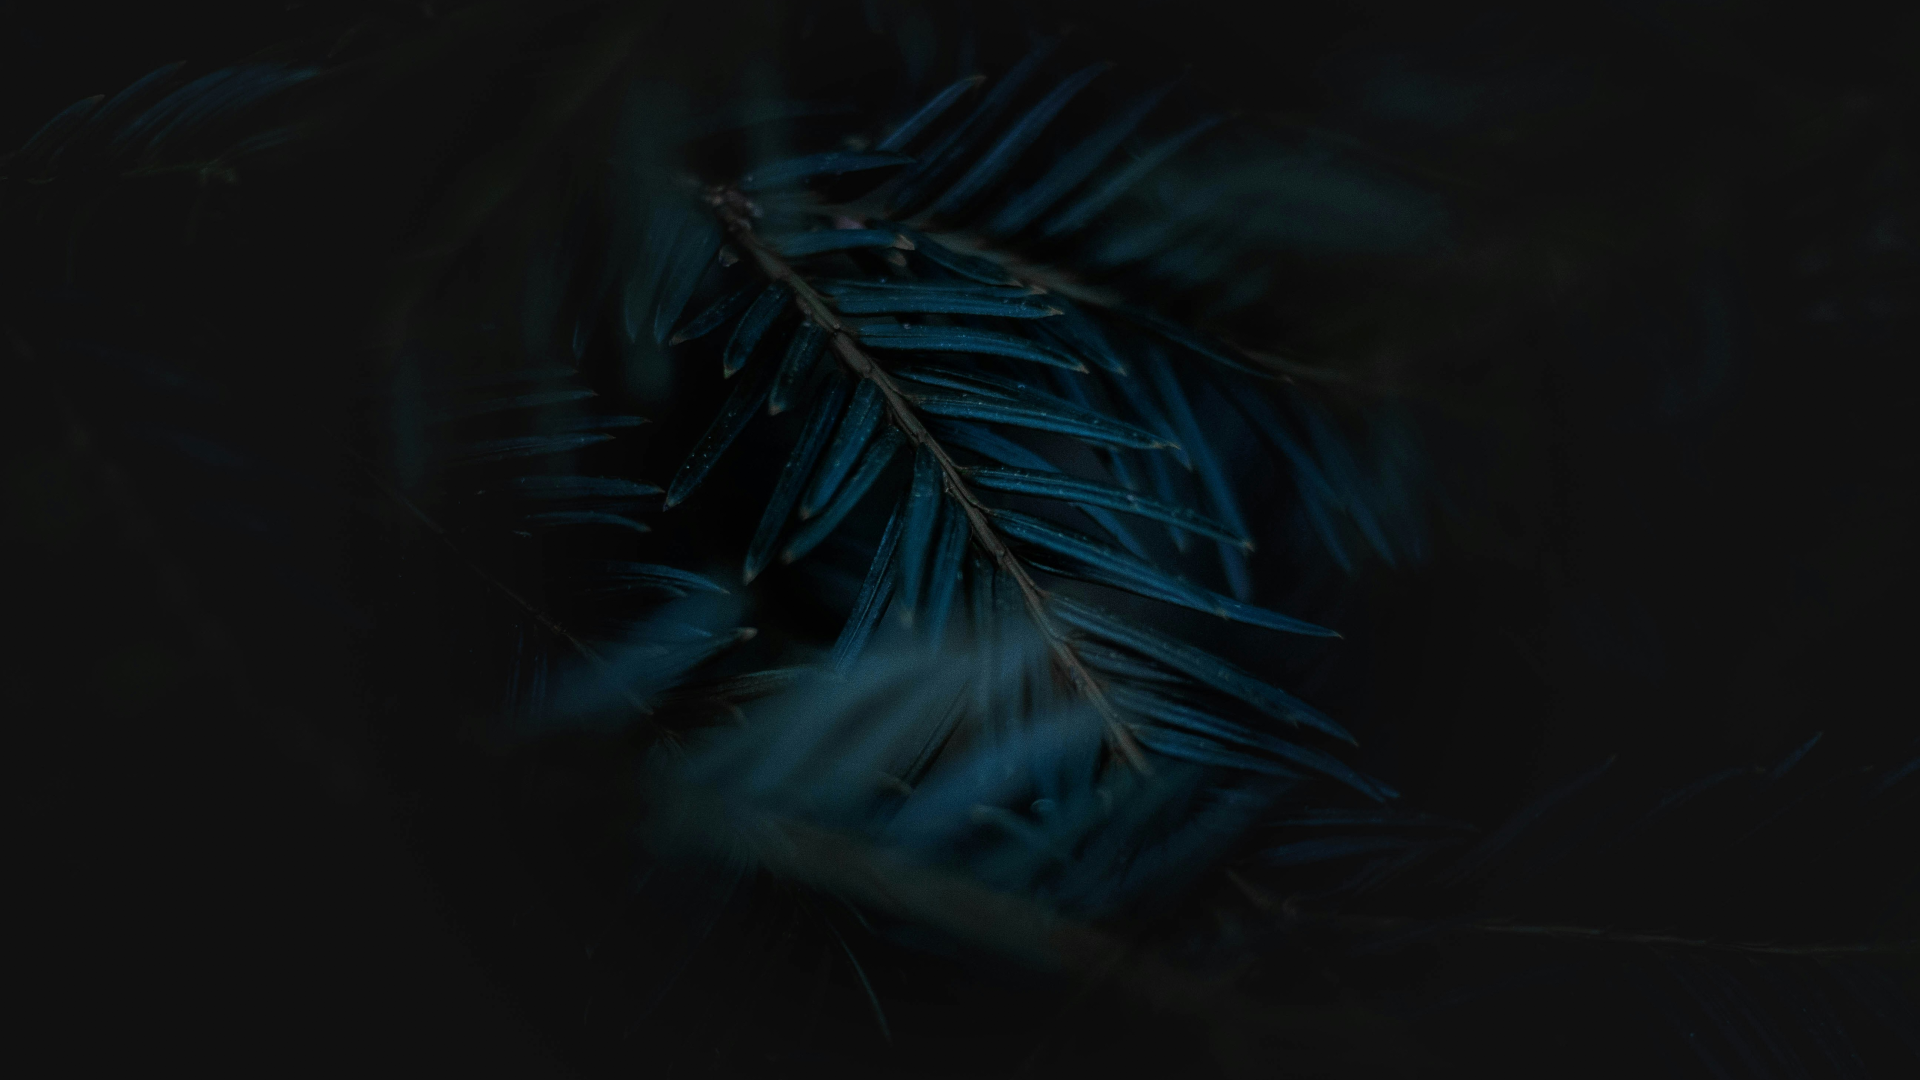
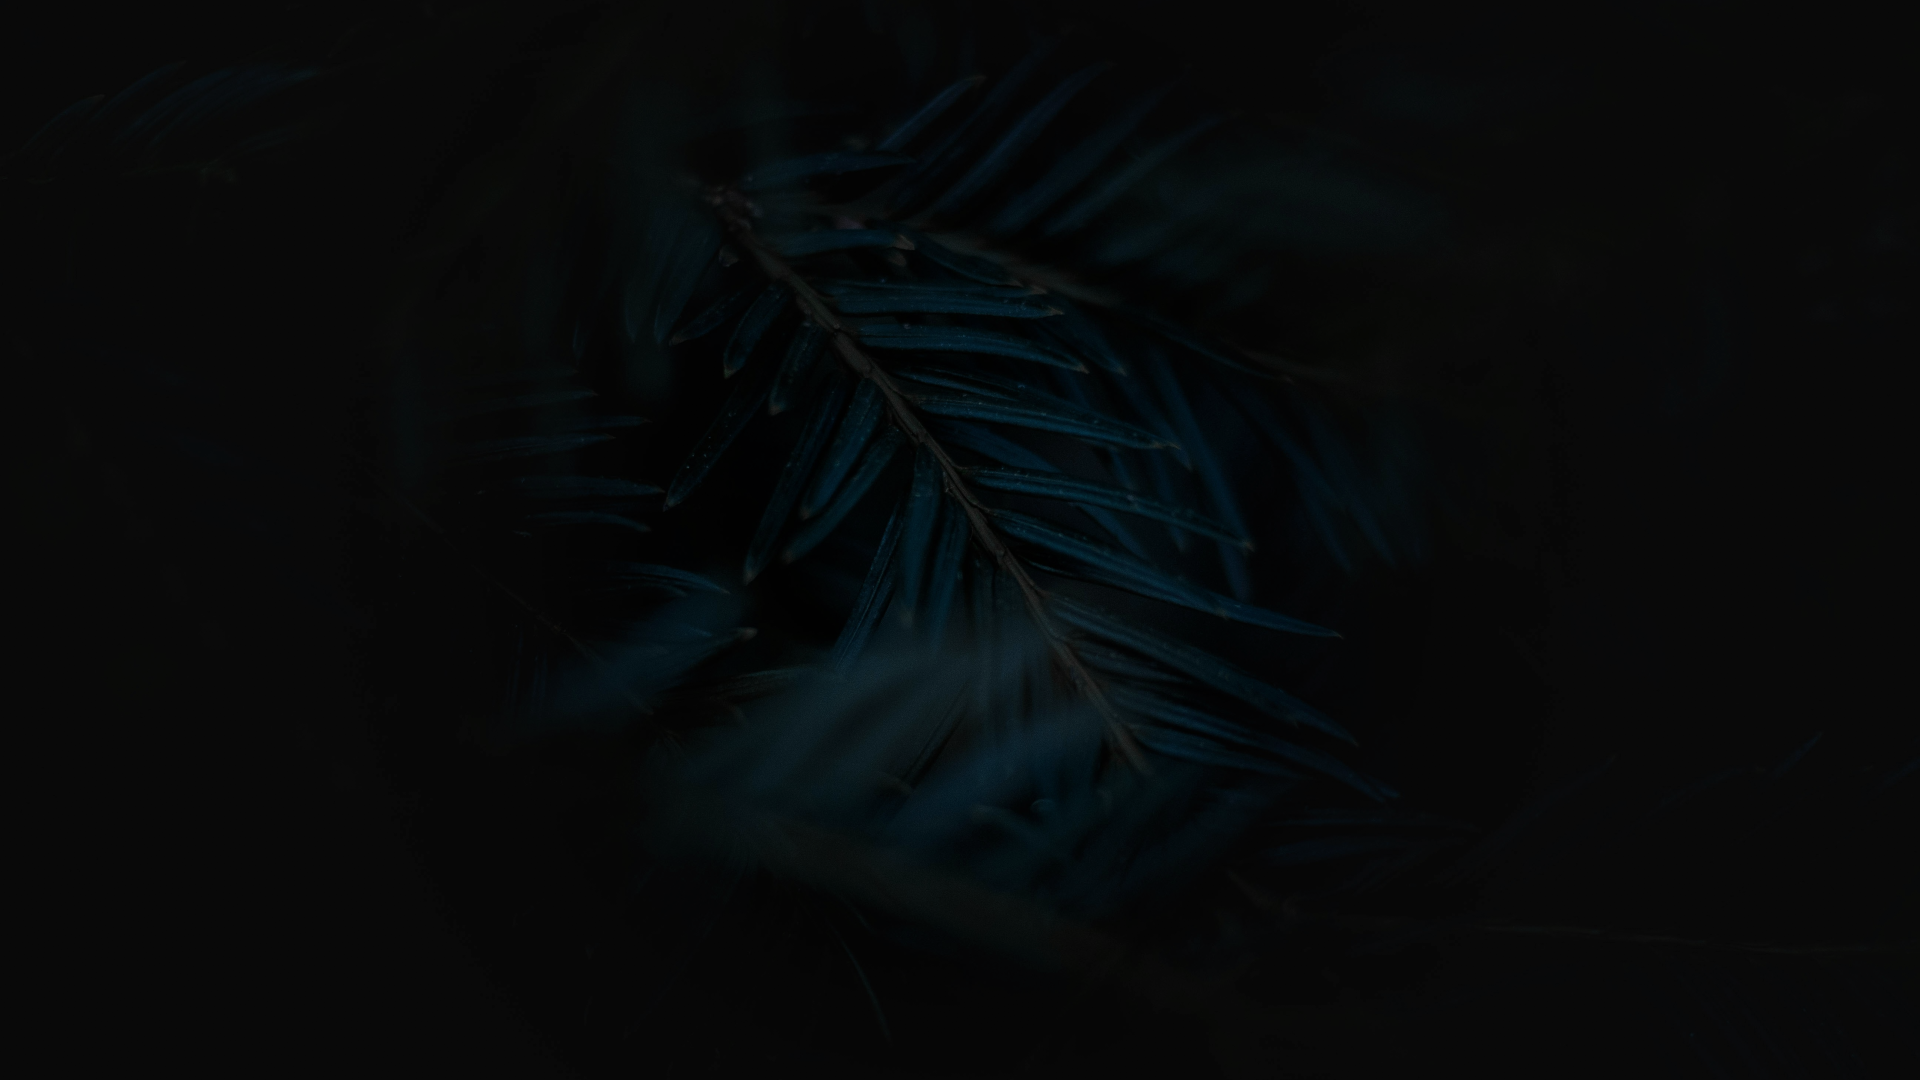
update login feature

diff --git a/assets/css/styles.css b/assets/css/styles.css
@@ -11159,7 +11159,3 @@ fieldset:disabled .btn {
 		display: none !important;
 	}
 }
-/* body {
-  background: url("https://dummyimage.com/1920x1080/dee2e6/6c757d.jpg") no-repeat center center fixed;
-  background-size: cover;
-} */

diff --git a/database.php b/database.php
@@ -1,0 +1,96 @@
+<?php
+defined('BASEPATH') or exit('No direct script access allowed');
+
+/*
+| -------------------------------------------------------------------
+| DATABASE CONNECTIVITY SETTINGS
+| -------------------------------------------------------------------
+| This file will contain the settings needed to access your database.
+|
+| For complete instructions please consult the 'Database Connection'
+| page of the User Guide.
+|
+| -------------------------------------------------------------------
+| EXPLANATION OF VARIABLES
+| -------------------------------------------------------------------
+|
+|	['dsn']      The full DSN string describe a connection to the database.
+|	['hostname'] The hostname of your database server.
+|	['username'] The username used to connect to the database
+|	['password'] The password used to connect to the database
+|	['database'] The name of the database you want to connect to
+|	['dbdriver'] The database driver. e.g.: mysqli.
+|			Currently supported:
+|				 cubrid, ibase, mssql, mysql, mysqli, oci8,
+|				 odbc, pdo, postgre, sqlite, sqlite3, sqlsrv
+|	['dbprefix'] You can add an optional prefix, which will be added
+|				 to the table name when using the  Query Builder class
+|	['pconnect'] TRUE/FALSE - Whether to use a persistent connection
+|	['db_debug'] TRUE/FALSE - Whether database errors should be displayed.
+|	['cache_on'] TRUE/FALSE - Enables/disables query caching
+|	['cachedir'] The path to the folder where cache files should be stored
+|	['char_set'] The character set used in communicating with the database
+|	['dbcollat'] The character collation used in communicating with the database
+|				 NOTE: For MySQL and MySQLi databases, this setting is only used
+| 				 as a backup if your server is running PHP < 5.2.3 or MySQL < 5.0.7
+|				 (and in table creation queries made with DB Forge).
+| 				 There is an incompatibility in PHP with mysql_real_escape_string() which
+| 				 can make your site vulnerable to SQL injection if you are using a
+| 				 multi-byte character set and are running versions lower than these.
+| 				 Sites using Latin-1 or UTF-8 database character set and collation are unaffected.
+|	['swap_pre'] A default table prefix that should be swapped with the dbprefix
+|	['encrypt']  Whether or not to use an encrypted connection.
+|
+|			'mysql' (deprecated), 'sqlsrv' and 'pdo/sqlsrv' drivers accept TRUE/FALSE
+|			'mysqli' and 'pdo/mysql' drivers accept an array with the following options:
+|
+|				'ssl_key'    - Path to the private key file
+|				'ssl_cert'   - Path to the public key certificate file
+|				'ssl_ca'     - Path to the certificate authority file
+|				'ssl_capath' - Path to a directory containing trusted CA certificates in PEM format
+|				'ssl_cipher' - List of *allowed* ciphers to be used for the encryption, separated by colons (':')
+|				'ssl_verify' - TRUE/FALSE; Whether verify the server certificate or not
+|
+|	['compress'] Whether or not to use client compression (MySQL only)
+|	['stricton'] TRUE/FALSE - forces 'Strict Mode' connections
+|							- good for ensuring strict SQL while developing
+|	['ssl_options']	Used to set various SSL options that can be used when making SSL connections.
+|	['failover'] array - A array with 0 or more data for connections if the main should fail.
+|	['save_queries'] TRUE/FALSE - Whether to "save" all executed queries.
+| 				NOTE: Disabling this will also effectively disable both
+| 				$this->db->last_query() and profiling of DB queries.
+| 				When you run a query, with this setting set to TRUE (default),
+| 				CodeIgniter will store the SQL statement for debugging purposes.
+| 				However, this may cause high memory usage, especially if you run
+| 				a lot of SQL queries ... disable this to avoid that problem.
+|
+| The $active_group variable lets you choose which connection group to
+| make active.  By default there is only one group (the 'default' group).
+|
+| The $query_builder variables lets you determine whether or not to load
+| the query builder class.
+*/
+$active_group = 'default';
+$query_builder = TRUE;
+
+$db['default'] = array(
+	'dsn'	=> '',
+	'hostname' => 'localhost',
+	'username' => 'root',
+	'password' => '',
+	'database' => 'db_belajar',
+	'dbdriver' => 'mysqli',
+	'dbprefix' => '',
+	'pconnect' => FALSE,
+	'db_debug' => (ENVIRONMENT !== 'production'),
+	'cache_on' => FALSE,
+	'cachedir' => '',
+	'char_set' => 'utf8',
+	'dbcollat' => 'utf8_general_ci',
+	'swap_pre' => '',
+	'encrypt' => FALSE,
+	'compress' => FALSE,
+	'stricton' => FALSE,
+	'failover' => array(),
+	'save_queries' => TRUE
+);

diff --git a/application/views/landing/register.php b/application/views/landing/register.php
@@ -1,0 +1,72 @@
+<!DOCTYPE html>
+<html lang="en" data-bs-theme="dark">
+
+<head>
+    <meta charset="utf-8" />
+    <meta name="viewport" content="width=device-width, initial-scale=1, shrink-to-fit=no" />
+    <meta name="description" content="Simple Notes Application For Assignment" />
+    <meta name="author" content="Muhammad Askar Habibulloh" />
+    <title>Simple Note</title>
+    <!-- Favicon-->
+    <link rel="icon" type="image/x-icon" href="<?= base_url('assets/img/') ?>journal.svg" />
+    <!-- Core theme CSS (includes Bootstrap)-->
+    <link href="<?= base_url('assets/') ?>css/styles.css" rel="stylesheet" />
+    <style>
+        label {
+            color: white;
+        }
+    </style>
+</head>
+
+<body style="background: url('<?= base_url("assets/img/") ?>g.png') no-repeat center center fixed; background-size: cover; background-color:black;">
+
+
+    <div class="container py-5 h-100">
+        <div class="row d-flex justify-content-center align-items-center h-100">
+            <div class="col-12 col-md-8 col-lg-6 col-xl-5">
+                <div class="card bg-dark text-white" style="border-radius: 1rem;">
+                    <div class="card-body p-5 text-center">
+
+                        <div class="mb-md-5 mt-md-4 pb-5">
+
+                            <h2 class="fw-bold mb-2 text-uppercase">Create Account</h2>
+                            <form method="post" action="<?= base_url('user/registration') ?>">
+                                <div class="form-outline form-white mb-4">
+                                    <label for="typeUsername">Username</label>
+                                    <input type="text" id="typeUsername" name="typeUsername" class="form-control form-control-lg" />
+                                </div>
+
+                                <div class="form-outline form-white mb-4">
+                                    <label for="typePassword">Password</label>
+                                    <input type="password" id="typePassword" name="typePassword" class="form-control form-control-lg" />
+                                </div>
+                                <div class="form-outline form-white mb-4">
+                                    <label for="typePasswordConfirm">Password Confirmation</label>
+                                    <input type="password" id="typePasswordConfirm" name="typePasswordConfirm" class="form-control form-control-lg" />
+                                </div>
+                                <button class="btn btn-outline-light btn-lg px-5 mt-3" type="submit">Register</button>
+                            </form>
+                            <div class="d-flex justify-content-center text-center mt-4 pt-1">
+                                <a href="#!" class="text-white"><i class="fab fa-facebook-f fa-lg"></i></a>
+                                <a href="#!" class="text-white"><i class="fab fa-twitter fa-lg mx-4 px-2"></i></a>
+                                <a href="#!" class="text-white"><i class="fab fa-google fa-lg"></i></a>
+                            </div>
+
+                        </div>
+
+                        <div>
+                            <p class="mb-0"> Have an account? <a href="<?= base_url('user') ?>" class="text-white-50 fw-bold">Sign In</a>
+                            </p>
+                        </div>
+
+                    </div>
+                </div>
+            </div>
+        </div>
+    </div><!-- Bootstrap core JS-->
+    <script src="https://cdn.jsdelivr.net/npm/bootstrap@5.2.3/dist/js/bootstrap.bundle.min.js"></script>
+    <!-- Core theme JS-->
+    <script src="<?= base_url('assets/') ?>js/scripts.js"></script>
+</body>
+
+</html>

diff --git a/application/views/landing/login.php b/application/views/landing/login.php
@@ -1,0 +1,70 @@
+<!DOCTYPE html>
+<html lang="en" data-bs-theme="dark">
+
+<head>
+    <meta charset="utf-8" />
+    <meta name="viewport" content="width=device-width, initial-scale=1, shrink-to-fit=no" />
+    <meta name="description" content="Simple Notes Application For Assignment" />
+    <meta name="author" content="Muhammad Askar Habibulloh" />
+    <title>Simple Note</title>
+    <!-- Favicon-->
+    <link rel="icon" type="image/x-icon" href="<?= base_url('assets/img/') ?>journal.svg" />
+    <!-- Core theme CSS (includes Bootstrap)-->
+    <link href="<?= base_url('assets/') ?>css/styles.css" rel="stylesheet" />
+    <style>
+        label {
+            color: white;
+        }
+    </style>
+</head>
+
+<body style="background: url('<?= base_url("assets/img/") ?>g.png') no-repeat center center fixed; background-size: cover; background-color:black;">
+
+
+    <div class="container py-5 h-100">
+        <div class="row d-flex justify-content-center align-items-center h-100">
+            <div class="col-12 col-md-8 col-lg-6 col-xl-5">
+                <div class="card bg-dark text-white" style="border-radius: 1rem;">
+
+                    <div class="card-body p-5 text-center">
+
+                        <div class="mb-md-5 mt-md-4 pb-5"><?= $this->session->flashdata('message') ?>
+
+                            <h2 class="fw-bold mb-2 text-uppercase">Login</h2>
+                            <form method="post" action="<?= base_url('user/login') ?>">
+                                <div class="form-outline form-white mb-4">
+                                    <label for="typeUsername">Username</label>
+                                    <input type="text" id="typeUsername" name="typeUsername" class="form-control form-control-lg" />
+                                </div>
+
+                                <div class="form-outline form-white mb-4">
+                                    <label for="typePassword">Password</label>
+                                    <input type="password" id="typePassword" name="typePassword" class="form-control form-control-lg" />
+                                </div>
+                                <button class="btn btn-outline-light btn-lg px-5 mt-3" type="submit">Login</button>
+                            </form>
+
+                            <div class="d-flex justify-content-center text-center mt-4 pt-1">
+                                <a href="#!" class="text-white"><i class="fab fa-facebook-f fa-lg"></i></a>
+                                <a href="#!" class="text-white"><i class="fab fa-twitter fa-lg mx-4 px-2"></i></a>
+                                <a href="#!" class="text-white"><i class="fab fa-google fa-lg"></i></a>
+                            </div>
+
+                        </div>
+
+                        <div>
+                            <p class="mb-0"> Dont have an account? <a href="<?= base_url('user/register') ?>" class="text-white-50 fw-bold">Sign Up</a>
+                            </p>
+                        </div>
+
+                    </div>
+                </div>
+            </div>
+        </div>
+    </div><!-- Bootstrap core JS-->
+    <script src="https://cdn.jsdelivr.net/npm/bootstrap@5.2.3/dist/js/bootstrap.bundle.min.js"></script>
+    <!-- Core theme JS-->
+    <script src="<?= base_url('assets/') ?>js/scripts.js"></script>
+</body>
+
+</html>

diff --git a/application/controllers/User.php b/application/controllers/User.php
@@ -1,0 +1,69 @@
+<?php
+defined('BASEPATH') or exit('No direct script access allowed');
+
+class user extends CI_Controller
+{
+	public function __construct()
+	{
+		parent::__construct();
+	}
+	public function index()
+	{
+		$this->load->view('landing/login');
+	}
+
+	public function register()
+	{
+		$this->load->view('landing/register');
+	}
+	public function notes()
+	{
+		$this->load->view('landing/notes');
+	}
+	public function registration()
+	{
+		$this->form_validation->set_rules('typeUsername', 'Username', 'required|trim|is_unique[user.username]');
+		$this->form_validation->set_rules('typePassword', 'Password', 'required|trim|min_length[5]|matches[typePasswordConfirm]');
+		$this->form_validation->set_rules('typePasswordConfirm', 'Password Confirmation', 'required|trim|matches[typePassword]');
+
+		if ($this->form_validation->run() == false) {
+			redirect('user/register');
+		} else {
+			$data = [
+				'username' => htmlspecialchars($this->input->post('typeUsername', true)),
+				'password' => password_hash($this->input->post('typePassword'), PASSWORD_DEFAULT),
+				'is_active' => '1',
+			];
+
+			$this->db->insert('user', $data);
+			$this->session->set_flashdata('message', '<div class="alert alert-success" role="alert">Your account has been created</div>');
+			redirect('user');
+		}
+	}
+
+	public function login()
+	{
+		$username = $this->input->post('typeUsername');
+		$password = $this->input->post('typePassword');
+
+		$user = $this->db->get_where('user', ['username' => $username])->row_array();
+
+		if ($user) {
+			if (password_verify($password, $user['password'])) {
+				$data = [
+					'username' => $user['username'],
+					'id_user' => $user['id_user'],
+					'is_active' => $user['is_active']
+				];
+				$this->session->set_userdata($data);
+				redirect('user/notes');
+			} else {
+				$this->session->set_flashdata('message', '<div class="alert alert-danger" role="alert">Wrong Password</div>');
+				redirect('user');
+			}
+		} else {
+			$this->session->set_flashdata('message', '<div class="alert alert-danger" role="alert">username Not Registered</div>');
+			redirect('user');
+		}
+	}
+}

diff --git a/application/views/landing/notes.php b/application/views/landing/notes.php
@@ -1,5 +1,5 @@
 <!DOCTYPE html>
-<html lang="en">
+<html lang="en" data-bs-theme="dark">
 
 <head>
     <meta charset="utf-8" />
@@ -14,13 +14,9 @@
     <style>
         @import url('https://fonts.googleapis.com/css2?family=Cousine&display=swap');
 
-        .container-custom {
-            height: 100%;
-        }
 
         textarea {
             width: 100%;
-            height: 80vh;
             /* From https://css.glass */
             background: rgba(255, 255, 255, 0.005);
             border-radius: 16px;
@@ -42,12 +38,12 @@
     </style>
 </head>
 
-<body style="background: url('<?= base_url("assets/img/") ?>bg.png') no-repeat center center fixed; background-size: cover;">
+<body style="background: url('<?= base_url("assets/img/") ?>g.png') no-repeat center center fixed; background-size: cover; background-color:black;">
 
     <!-- Page Content-->
     <nav class="navbar bg-body-tertiary">
         <form class=" container justify-content-end gap-3">
-            <textarea class="my-5 fs-5 " name="" id="" cols="30" rows="10"></textarea>
+            <textarea class="my-5 fs-5 " name="" id="" cols="30" rows="10" placeholder="Type Something"></textarea>
             <button class="btn btn-outline-success me-2" type="button">Save</button>
             <button class="btn btn-outline-danger" type="button">Clear</button>
         </form>

diff --git a/application/config/routes.php b/application/config/routes.php
@@ -1,5 +1,5 @@
 <?php
-defined('BASEPATH') OR exit('No direct script access allowed');
+defined('BASEPATH') or exit('No direct script access allowed');
 
 /*
 | -------------------------------------------------------------------------
@@ -49,6 +49,6 @@ defined('BASEPATH') OR exit('No direct script access allowed');
 | Examples:	my-controller/index	-> my_controller/index
 |		my-controller/my-method	-> my_controller/my_method
 */
-$route['default_controller'] = 'welcome';
+$route['default_controller'] = 'user';
 $route['404_override'] = '';
 $route['translate_uri_dashes'] = FALSE;

diff --git a/application/config/config.php b/application/config/config.php
@@ -35,7 +35,7 @@ $config['base_url'] = 'http://localhost/tugas_framework/';
 | variable so that it is blank.
 |
 */
-$config['index_page'] = 'index.php';
+$config['index_page'] = '';
 
 /*
 |--------------------------------------------------------------------------
